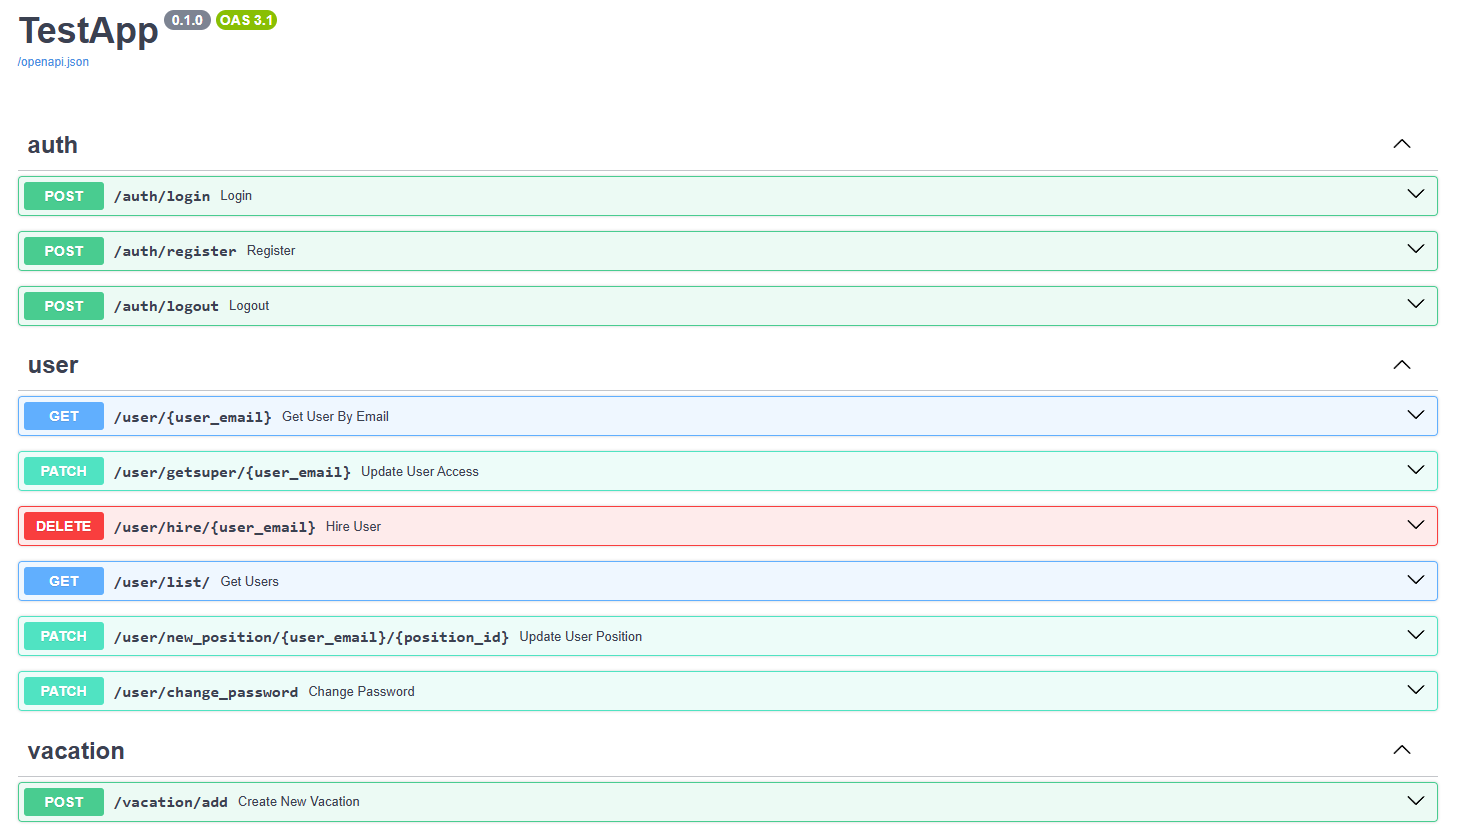
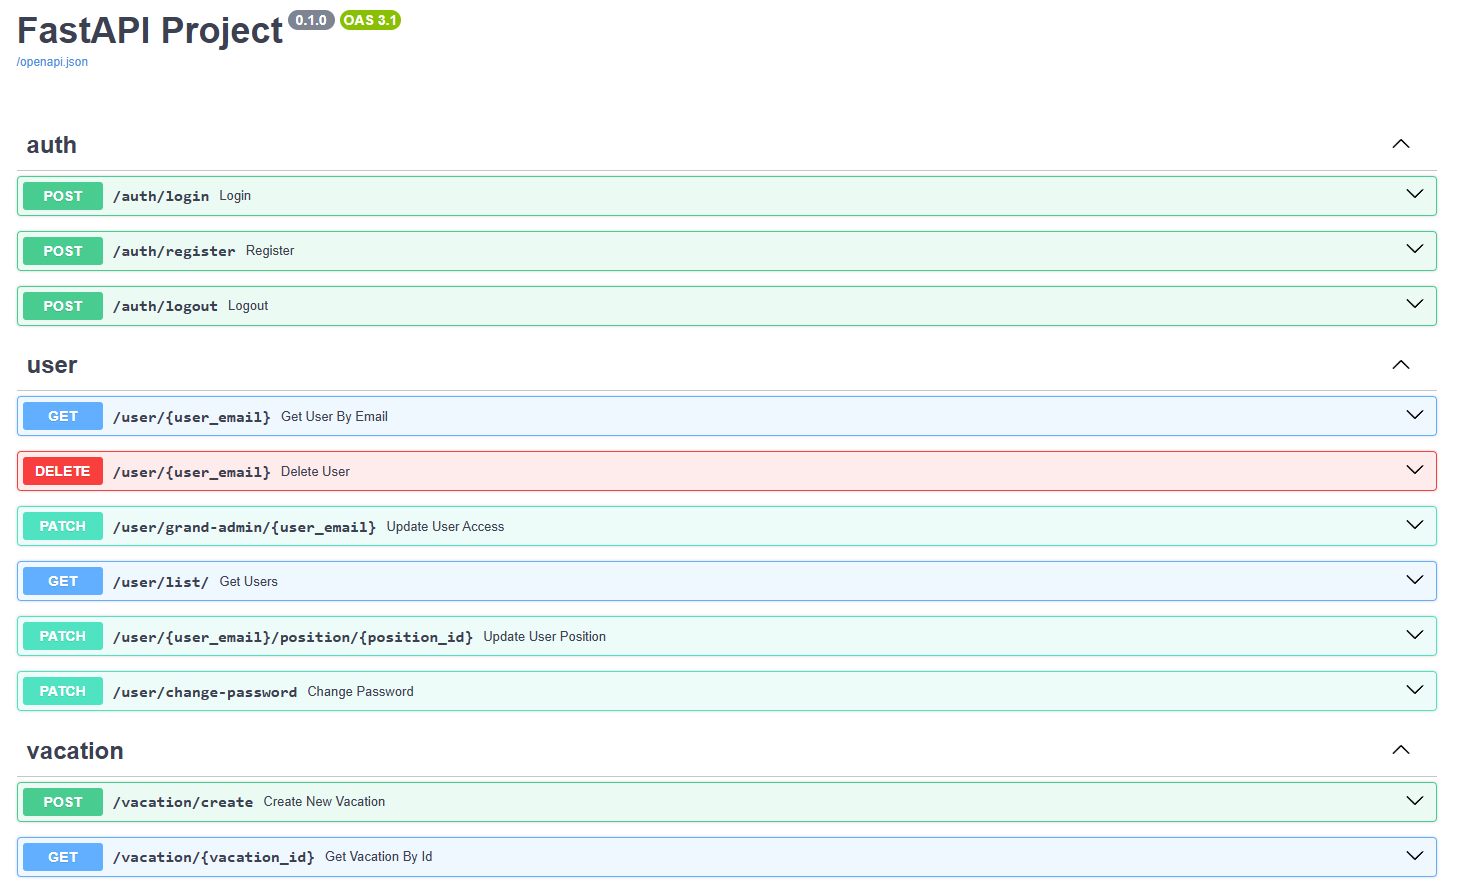
Update routes to more RESTful

Changed region(s): [[0.0, 0.1561, 0.9843, 0.9988], [0.0, 0.0, 0.2768, 0.0936]]

diff --git a/src/section/router.py b/src/section/router.py
@@ -20,7 +20,7 @@ from src.utils.logger import logger
 router = APIRouter(prefix="/section", tags=["section"])
 
 
-@router.post("/add", response_model=MessageResponse)
+@router.post("/create", response_model=MessageResponse)
 async def create_new_section(
     user: Annotated[UserSessionInfo, Depends(get_current_superuser)],
     section: SectionCreate,
@@ -38,7 +38,7 @@ async def create_new_section(
 
         if "Unique" in error:
             logger.warning(
-                f"{user.email}: Trying to add an existing section {section.name}"
+                f"{user.email}: Trying to create an existing section {section.name}"
             )
 
             raise HTTPException(
@@ -47,7 +47,7 @@ async def create_new_section(
 
         if "Foreign" in error:
             logger.warning(
-                f"{user.email}: Trying to add a section with a non-existent user id = {section.head_id}"
+                f"{user.email}: Trying to create a section with a non-existent user id = {section.head_id}"
             )
 
             raise HTTPException(
@@ -58,7 +58,7 @@ async def create_new_section(
         raise HTTPException(status_code=status.HTTP_500_INTERNAL_SERVER_ERROR)
 
     logger.info(
-        f"{user.email}: Added new section, name = {section.name}, head = {section.head_id}"
+        f"{user.email}: Created new section, name = {section.name}, head = {section.head_id}"
     )
 
     return JSONResponse(
@@ -67,7 +67,7 @@ async def create_new_section(
     )
 
 
-@router.delete("/delete/{section_name}", response_model=MessageResponse)
+@router.delete("/{section_name}/remove", response_model=MessageResponse)
 async def delete_section(
     user: Annotated[UserSessionInfo, Depends(get_current_superuser)],
     section_name: str,
@@ -93,17 +93,16 @@ async def delete_section(
     )
 
 
-@router.put("/update", response_model=MessageResponse)
+@router.put("/{section_name}/{head_id}", response_model=MessageResponse)
 async def update_section(
     user: Annotated[UserSessionInfo, Depends(get_current_superuser)],
-    section: SectionCreate,
+    section_name: str,
+    head_id: int = None,
     session: AsyncSession = Depends(get_async_session),
 ):
     try:
         stmt = (
-            update(Section)
-            .filter(Section.name == section.name)
-            .values(head_id=section.head_id)
+            update(Section).filter(Section.name == section_name).values(head_id=head_id)
         )
         result = await session.execute(stmt)
         await session.commit()
@@ -115,28 +114,26 @@ async def update_section(
         if "Foreign" in error:
 
             logger.warning(
-                f"{user.email}: Trying to change head of section {section.name} to non-existent user id = {section.head_id}"
+                f"{user.email}: Trying to change head of section {section_name} to non-existent user id = {head_id}"
             )
 
             raise HTTPException(
                 status_code=status.HTTP_400_BAD_REQUEST,
-                detail=f"The user with id {section.head_id} does not exist ",
+                detail=f"The user with id {section_name} does not exist ",
             )
 
         raise HTTPException(status_code=status.HTTP_500_INTERNAL_SERVER_ERROR)
 
     if result.rowcount == 0:
         logger.warning(
-            f"{user.email}: Trying to update non-existent section {section.name}"
+            f"{user.email}: Trying to update non-existent section {section_name}"
         )
         raise HTTPException(
             status_code=status.HTTP_404_NOT_FOUND,
-            detail=f"Section {section.name} not found",
+            detail=f"Section {section_name} not found",
         )
 
-    logger.info(
-        f"{user.email}: Change section {section.name} head to {section.head_id}"
-    )
+    logger.info(f"{user.email}: Change section {section_name} head to {head_id}")
     return JSONResponse(
         content={"message": "Section update"}, status_code=status.HTTP_200_OK
     )

diff --git a/tests/test_user.py b/tests/test_user.py
@@ -1,5 +1,9 @@
+import json
+from unittest import mock
 from fastapi import status
 import pytest
+
+from src.config import SUPERUSER_PASSWORD
 
 base = "/user/"
 
@@ -53,7 +57,7 @@ async def test_register(client_fixture, expected_status):
     indirect=["client_fixture"],
 )
 async def test_update(client_fixture, expected_status):
-    respond = await client_fixture.patch(base + "getsuper/123@example.com")
+    respond = await client_fixture.patch(base + "grand-admin/123@example.com")
     assert respond.status_code == expected_status
 
 
@@ -98,7 +102,7 @@ async def test_get_users(client_fixture, expected_status, params):
     indirect=["client_fixture"],
 )
 async def test_user_position_patch(client_fixture, expected_status):
-    respond = await client_fixture.patch(base + "new_position/123@example.com/1")
+    respond = await client_fixture.patch(base + "123@example.com/position/1")
     assert respond.status_code == expected_status
 
 
@@ -111,9 +115,27 @@ async def test_user_position_patch(client_fixture, expected_status):
     ],
     indirect=["client_fixture"],
 )
-async def test_hire(client_fixture, expected_status):
-    respond = await client_fixture.delete(base + "hire/123@example.com")
+async def test_delete(client_fixture, expected_status):
+    respond = await client_fixture.delete(base + "123@example.com")
     assert respond.status_code == expected_status
     if respond.status_code == status.HTTP_200_OK:
         respond = await client_fixture.get(base + "123@example.com")
         assert respond.status_code == status.HTTP_404_NOT_FOUND
+
+
+@pytest.mark.parametrize(
+    "client_fixture, expected_status",
+    [
+        ("regular_client", status.HTTP_200_OK),
+        ("unauthorized_client", status.HTTP_401_UNAUTHORIZED),
+    ],
+    indirect=["client_fixture"],
+)
+async def test_password_change(client_fixture, expected_status, mock_redis):
+    respond = await client_fixture.patch(
+        base + "change-password", json={"new_password": SUPERUSER_PASSWORD}
+    )
+    assert respond.status_code == expected_status
+    if respond.status_code == 200:
+        key = "user_sessions:2"
+        assert await mock_redis.exists(key) == 0

diff --git a/src/position/router.py b/src/position/router.py
@@ -19,7 +19,7 @@ from src.utils.logger import logger
 router = APIRouter(prefix="/position", tags=["position"])
 
 
-@router.post("/add", response_model=MessageResponse)
+@router.post("/create", response_model=MessageResponse)
 async def create_new_position(
     user: Annotated[User, Depends(get_current_superuser)],
     position: PositionCreate,
@@ -36,7 +36,7 @@ async def create_new_position(
 
         if "Unique" in error:
             logger.warning(
-                f"{user.email}: Trying to add an existing position {position.name}"
+                f"{user.email}: Trying to create an existing position {position.name}"
             )
             raise HTTPException(
                 status_code=status.HTTP_400_BAD_REQUEST, detail="Position already exist"
@@ -44,7 +44,7 @@ async def create_new_position(
 
         if "Foreign" in error:
             logger.warning(
-                f"{user.email}: Trying to add a position in non-existent section id {position.section_id}"
+                f"{user.email}: Trying to create a position in non-existent section id {position.section_id}"
             )
 
             raise HTTPException(
@@ -54,7 +54,7 @@ async def create_new_position(
         raise HTTPException(status_code=status.HTTP_500_INTERNAL_SERVER_ERROR)
 
     logger.info(
-        f"{user.email}: Added new position, name = {position.name}, section = {position.section_id}"
+        f"{user.email}: Created new position, name = {position.name}, section = {position.section_id}"
     )
 
     return JSONResponse(
@@ -62,7 +62,7 @@ async def create_new_position(
     )
 
 
-@router.delete("/delete/{position_name}", response_model=MessageResponse)
+@router.delete("/{position_name}/remove", response_model=MessageResponse)
 async def delete_position(
     user: Annotated[User, Depends(get_current_superuser)],
     position_name: str,
@@ -86,7 +86,7 @@ async def delete_position(
     )
 
 
-@router.patch("/update/{position_name}/{section_id}")
+@router.patch("/{position_name}/{section_id}")
 async def update_position(
     user: Annotated[User, Depends(get_current_superuser)],
     position_name: str,

diff --git a/src/user/router.py b/src/user/router.py
@@ -69,7 +69,7 @@ async def get_user_by_email(
     )
 
 
-@router.patch("/getsuper/{user_email}", response_model=MessageResponse)
+@router.patch("/grand-admin/{user_email}", response_model=MessageResponse)
 async def update_user_access(
     user: Annotated[UserSessionInfo, Depends(get_current_superuser)],
     user_email: EmailStr,
@@ -100,8 +100,8 @@ async def update_user_access(
     )
 
 
-@router.delete("/hire/{user_email}", response_model=MessageResponse)
-async def hire_user(
+@router.delete("/{user_email}", response_model=MessageResponse)
+async def delete_user(
     user: Annotated[UserSessionInfo, Depends(get_current_superuser)],
     user_email: EmailStr,
     session: AsyncSession = Depends(get_async_session),
@@ -245,9 +245,7 @@ async def get_users(
     )
 
 
-@router.patch(
-    "/new_position/{user_email}/{position_id}", response_model=MessageResponse
-)
+@router.patch("/{user_email}/position/{position_id}", response_model=MessageResponse)
 async def update_user_position(
     user: Annotated[UserSessionInfo, Depends(get_current_superuser)],
     user_email: EmailStr,
@@ -290,7 +288,7 @@ async def update_user_position(
     )
 
 
-@router.patch("/change_password", response_model=MessageResponse)
+@router.patch("/change-password", response_model=MessageResponse)
 async def change_password(
     user: Annotated[UserSessionInfo, Depends(get_current_user)],
     data: UserPassChange,

diff --git a/tests/test_position.py b/tests/test_position.py
@@ -13,9 +13,9 @@ base = "/position/"
     ],
     indirect=["client_fixture"],
 )
-async def test_position_add(client_fixture, expected_status):
+async def test_position_create(client_fixture, expected_status):
     respond = await client_fixture.post(
-        base + "add",
+        base + "create",
         json={"section_id": 1, "name": "Position"},
     )
     assert respond.status_code == expected_status
@@ -44,7 +44,7 @@ async def test_get_position(client_fixture, expected_status):
     indirect=["client_fixture"],
 )
 async def test_patch_position(client_fixture, expected_status):
-    respond = await client_fixture.patch(base + "update/Position/1")
+    respond = await client_fixture.patch(base + f"Position/{1}")
     assert respond.status_code == expected_status
 
 
@@ -86,7 +86,7 @@ async def test_get_positions(client_fixture, expected_status, params):
     indirect=["client_fixture"],
 )
 async def test_delete_position(client_fixture, expected_status):
-    respond = await client_fixture.delete(base + "delete/Position")
+    respond = await client_fixture.delete(base + "Position/remove")
     assert respond.status_code == expected_status
     if respond.status_code == status.HTTP_200_OK:
         respond = await client_fixture.get(base + "Position")

diff --git a/tests/test_section.py b/tests/test_section.py
@@ -13,9 +13,9 @@ base = "/section/"
     ],
     indirect=["client_fixture"],
 )
-async def test_section_add(client_fixture, expected_status):
+async def test_section_create(client_fixture, expected_status):
     respond = await client_fixture.post(
-        base + "add",
+        base + "create",
         json={"name": "Section"},
     )
     assert respond.status_code == expected_status
@@ -45,8 +45,7 @@ async def test_get_section(client_fixture, expected_status):
 )
 async def test_put_section(client_fixture, expected_status):
     respond = await client_fixture.put(
-        base + "update",
-        json={"name": "Section", "head_id": 1},
+        base + "Section/1",
     )
     assert respond.status_code == expected_status
 
@@ -88,7 +87,7 @@ async def test_get_sections(client_fixture, expected_status, params):
     indirect=["client_fixture"],
 )
 async def test_delete_section(client_fixture, expected_status):
-    respond = await client_fixture.delete(base + "delete/Section")
+    respond = await client_fixture.delete(base + "Section/remove")
     assert respond.status_code == expected_status
     if respond.status_code == status.HTTP_200_OK:
         respond = await client_fixture.get(base + "Section")

diff --git a/tests/conftest.py b/tests/conftest.py
@@ -13,11 +13,19 @@ from src.auth.router import hash_password
 from src.databasemodels import Base, Position, Section, User
 from src.database import get_async_session
 from src.main import app
-from src.config import REDIS_HOST, REDIS_PORT, SUPERUSER_PASSWORD
-from src.config import DB_HOST, DB_NAME, DB_PASS, DB_PORT, DB_USER
+from src.config import (
+    DB_NAME,
+    DB_PASS,
+    DB_PORT,
+    DB_USER,
+    REDIS_PORT,
+    SUPERUSER_PASSWORD,
+)
 import src.services.redis as auth_service
 
 logging.basicConfig(level=logging.DEBUG)
+DB_HOST = "localhost"
+REDIS_HOST = "localhost"
 
 DATABASE_URL = f"postgresql+asyncpg://{DB_USER}:{DB_PASS}@{DB_HOST}:{DB_PORT}/{DB_NAME}"
 
@@ -77,7 +85,7 @@ async def db_session() -> AsyncGenerator[AsyncSession, None]:
 async def mock_redis(monkeypatch):
     client = Redis(host=REDIS_HOST, port=REDIS_PORT, db=0, decode_responses=True)
     monkeypatch.setattr(auth_service, "redis_client", client)
-    yield
+    yield client
     await client.aclose()
 
 

diff --git a/src/vacation/router.py b/src/vacation/router.py
@@ -21,7 +21,7 @@ from src.utils.logger import logger
 router = APIRouter(prefix="/vacation", tags=["vacation"])
 
 
-@router.post("/add", response_model=MessageResponse)
+@router.post("/create", response_model=MessageResponse)
 async def create_new_vacation(
     user: Annotated[User, Depends(get_current_superuser)],
     vacation: VacationCreate,
@@ -39,7 +39,7 @@ async def create_new_vacation(
 
         if "Foreign" in error:
             logger.warning(
-                f"{user.email}: Trying to add a vacation to a non-existent user {vacation.receiver_id}"
+                f"{user.email}: Trying to create a vacation to a non-existent user {vacation.receiver_id}"
             )
 
             raise HTTPException(

diff --git a/tests/test_vacation.py b/tests/test_vacation.py
@@ -13,9 +13,9 @@ base = "/vacation/"
     ],
     indirect=["client_fixture"],
 )
-async def test_vacation_add(client_fixture, expected_status):
+async def test_vacation_create(client_fixture, expected_status):
     respond = await client_fixture.post(
-        base + "add",
+        base + "create",
         json={
             "receiver_id": 2,
             "start_date": "2024-02-10",

diff --git a/src/main.py b/src/main.py
@@ -17,7 +17,7 @@ async def lifespan(app: FastAPI):
     logger.info("App is shutting down")
 
 
-app = FastAPI(title="TestApp", lifespan=lifespan)
+app = FastAPI(title="FastAPI Project", lifespan=lifespan)
 
 
 app.include_router(regRouter)
